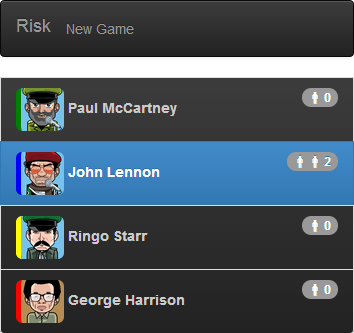
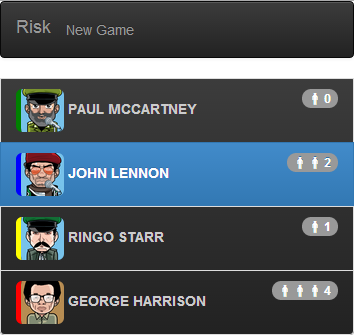
Update step 5

diff --git a/samples/s5_template/web/players.html b/samples/s5_template/web/players.html
@@ -10,7 +10,7 @@
       <template repeat="{{ player in players }}">
         <li class="list-group-item {{ {'active': player.playerId == activePlayerId} }}">
           <img src="img/avatars/{{ player.avatar }}" style="border-color: {{ player.color }}" class="img-rounded" alt="Avatar">
-          <span><b>{{ player.name | uppercase }}</b></span>
+          <span><b>{{ player.name | capitalize }}</b></span>
           <span class="badge pull-right">
             <i class="riskicon riskicon-soldier"></i>
             <template if="{{ player.reinforcement >= 2 }}">

diff --git a/samples/s5_template/web/players.dart b/samples/s5_template/web/players.dart
@@ -19,5 +19,5 @@ class RiskPlayers extends PolymerElement {
 
   RiskPlayers.created(): super.created();
 
-  String uppercase(String s) => s.toUpperCase();
+  String capitalize(String s) => s.toUpperCase();
 }

diff --git a/docs/step-5.md b/docs/step-5.md
@@ -1,8 +1,8 @@
 ## Step 5: Polymer templates
 
-In this step, ...
+In this step, you use more binding expressions, filter function and templates.
 
-_**Keywords**: ..._
+_**Keywords**: binding, filter function, conditional template, template loop_
 
 ### Create a `risk-players` element
 
@@ -73,41 +73,43 @@ Key information:
 
 ### Filter function
 
-We want to uppercase the player name, to do so, follow this instructions:
+Filters let you change how your model data is displayed in the view without changing the model data itself. 
+For example, they're useful for showing parts of a model's data, or displaying data in a particular format.
+You can also easily create and use your own filters, as the following instructions show how to capitalize player name.
 
-&rarr; Add a `uppercase` filter function in `web/players.dart`:
+&rarr; Add a `capitalize` filter function in `web/players.dart`:
 
 ```Dart
 class RiskPlayers extends PolymerElement {
   // ...
-  String uppercase(String s) => s.toUpperCase();
+  String capitalize(String s) => s.toUpperCase();
   // ...
 }
 ```
 
-&rarr; Use it to upper-case the player `name` in `web/players.html`:
+&rarr; Use it to capitalize the player `name` in `web/players.html`:
 
 ```HTML
-<span><b>{{player.name | uppercase}}</b></span>
+<span><b>{{player.name | capitalize}}</b></span>
 ```
 
 &rarr; Run in Dartium
 
-You should see the upper-case player name:
+You should see the capitalized player name:
 
-![Single player](img/s5-player-uppercase.png).
+![Single capitalized player](img/s5-player-uppercase.png).
 
 Key information:
 * A filter is a function that transforms a value into another, used via the pipe syntax: `value | filter`. Any function that takes exactly one argument can be used as a filter.
-* The top-level function named `uppercase` is in the scope so if `player.name` is "John Lennon", then `person.name | uppercase` will have the value "JOHN LENNON".
+* The top-level function named `capitalize` is in the scope so if `player.name` is "John Lennon", then `person.name | capitalize` will have the value "JOHN LENNON".
 
 ### Conditional template
 
 We want to display soldier icons in function of the number of player reinforcement:
 
-- ![!](img/soldier.png) if `reinforcement` is less or equal to `1`
-- ![!](img/soldier.png)![!](img/soldier.png)![!] if `reinforcement` is equal `2`
-- ![!](img/soldier.png)![!](img/soldier.png)![!](img/soldier.png) if `reinforcement` is greater or equal to `3`
+- ![!](img/soldier.png): if `reinforcement` is less or equal than `1`
+- ![!](img/soldier.png)![!](img/soldier.png): if `reinforcement` is equal to `2`
+- ![!](img/soldier.png)![!](img/soldier.png)![!](img/soldier.png): if `reinforcement` is greater or equal than `3`
 
 &rarr; In `web/players.html`, use conditional templates:
 
@@ -115,22 +117,73 @@ We want to display soldier icons in function of the number of player reinforceme
 <span class="badge pull-right">
   <i class="riskicon riskicon-soldier"></i>
   <!-- TODO complete the if expression -->
-  <template if="{{ true }}">
+  <template if="{{ ... }}">
     <i class="riskicon riskicon-soldier"></i>
   </template>
   <!-- TODO complete the if expression -->
-  <template if="{{ false }}">
+  <template if="{{ ... }}">
     <i class="riskicon riskicon-soldier"></i>
   </template>
   {{ player.reinforcement }}
 </span>
 ```
 
+&rarr; Complete the `if` conditions with the right expressions.  
 &rarr; Run in Dartium, and try to change the value of player `reinforcement`.
 
 Key information:
-* Control the UI with declarative conditionals in templates.
+* Control the UI with declarative conditional `if` templates.
 * Template conditionals are part of the data binding infrastructure. If `player.reinforcement` changes, the templates are automatically re-evaluated.
+
+### Template loop
+
+We want to display a list of players.
+
+&rarr; In `web/players.dart`, remove the `player` field and add two new published fields, `players` and `activePlayerId`:
+
+```Dart
+class RiskPlayers extends PolymerElement {
+  // We don't need player field anymore
+  // PlayerState player = new PlayerStateImpl(2, "John Lennon", "kadhafi.png", "blue", reinforcement: 2);
+
+  @published
+  Iterable<PlayerState> players = [
+    new PlayerStateImpl(1, "Paul McCartney", "castro.png", "green", reinforcement: 0),
+    new PlayerStateImpl(2, "John Lennon", "kadhafi.png", "blue", reinforcement: 2),
+    new PlayerStateImpl(3, "Ringo Starr", "staline.png", "yellow", reinforcement: 1),
+    new PlayerStateImpl(4, "George Harrison", "kim-jong-il.png", "red", reinforcement: 4),
+  ];
+
+  @published
+  int activePlayerId = 2;
+  // ...
+}
+```
+
+&rarr; In `web/players.html`, use conditional loop to iterate over `players`:
+
+```HTML
+<ul id="players" class="list-group list-group-inverse img-rounded">
+  <template repeat="{{ player in players }}">
+    <!-- Complete the following tokenList filter to enable `active` class if it is the active player -->
+    <li class="list-group-item {{ {'active': ...} }}">
+      <!-- ... -->
+    </li>
+  </template>
+</ul>
+```
+
+&rarr; Complete the `tokenList` filter to enable `active` class if it is the active player in function of `activePlayerId` value.  
+&rarr; Run in Dartium.
+
+You should see something like:
+
+![Players list](img/s5-players.png).
+
+Key information:
+* `{{ player in players }}` loops through a collection, instantiating a template for every item in the collection.
+* Template loops are part of the data binding infrastructure. If an item is added or removed from `players`, the contents of `<ul>` are automatically updated.
+* The `tokenList` filter is useful for binding to the class attribute. It allows you to dynamically set/remove class names based on the object passed to it. If the object key is truthy, the name will be applied as a class.
 
 ### Learn more
  - [Polymer.dart](https://www.dartlang.org/polymer-dart/)

diff --git a/docs/step-4.md b/docs/step-4.md
@@ -1,9 +1,9 @@
 ## Step 4: Polymer custom element
 
-In this step, extend the lexicon of HTML with your own custom element. 
+In this step, you create a custom element that lets you use a `<hello-world>` tag anywhere in your app. 
 You also specify element-defined style and expose an custom element attribute.
 
-_**Keywords**: polymer, custom element, template, custom attribute, binding_
+_**Keywords**: custom element, Shadow DOM, custom attribute, binding_
 
 
 ### Bootstrap Polymer
@@ -262,6 +262,7 @@ Key information:
  - [Polymer.dart](https://www.dartlang.org/polymer-dart/)
  - [Polymer project](http://www.polymer-project.org/)
  - [A Guide to Styling Elements](http://www.polymer-project.org/articles/styling-elements.html)
+ - [Shadow DOM](http://www.w3.org/TR/shadow-dom/)
 
 ### Problems?
 Check your code against the files in [s4_element](../samples/s4_element).
